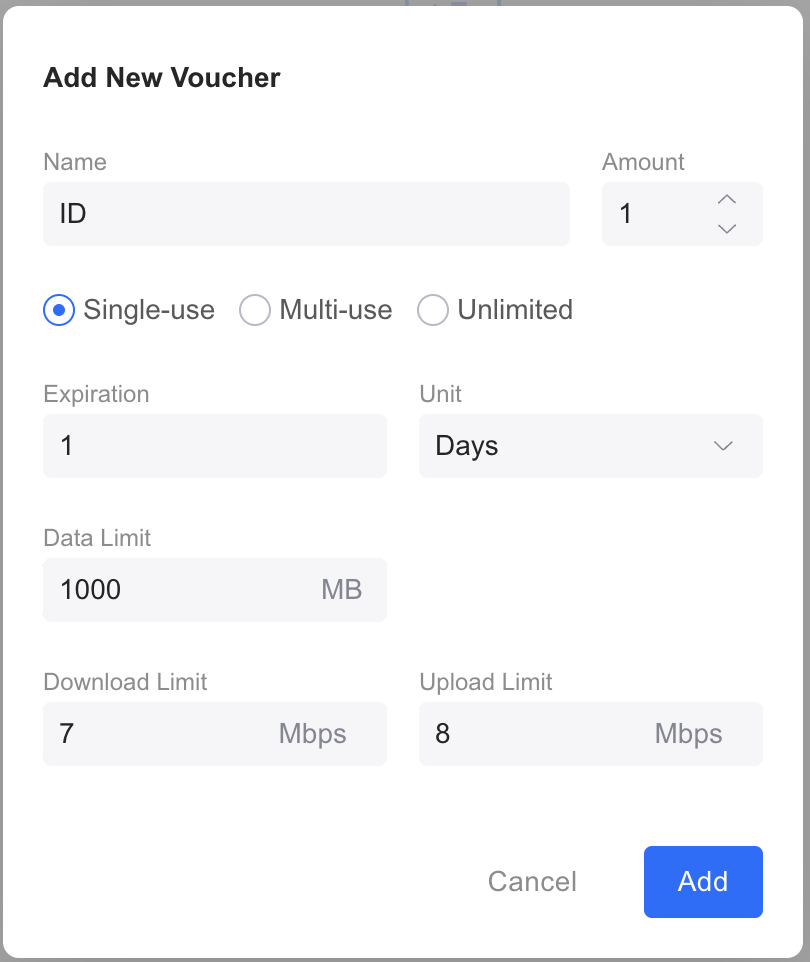
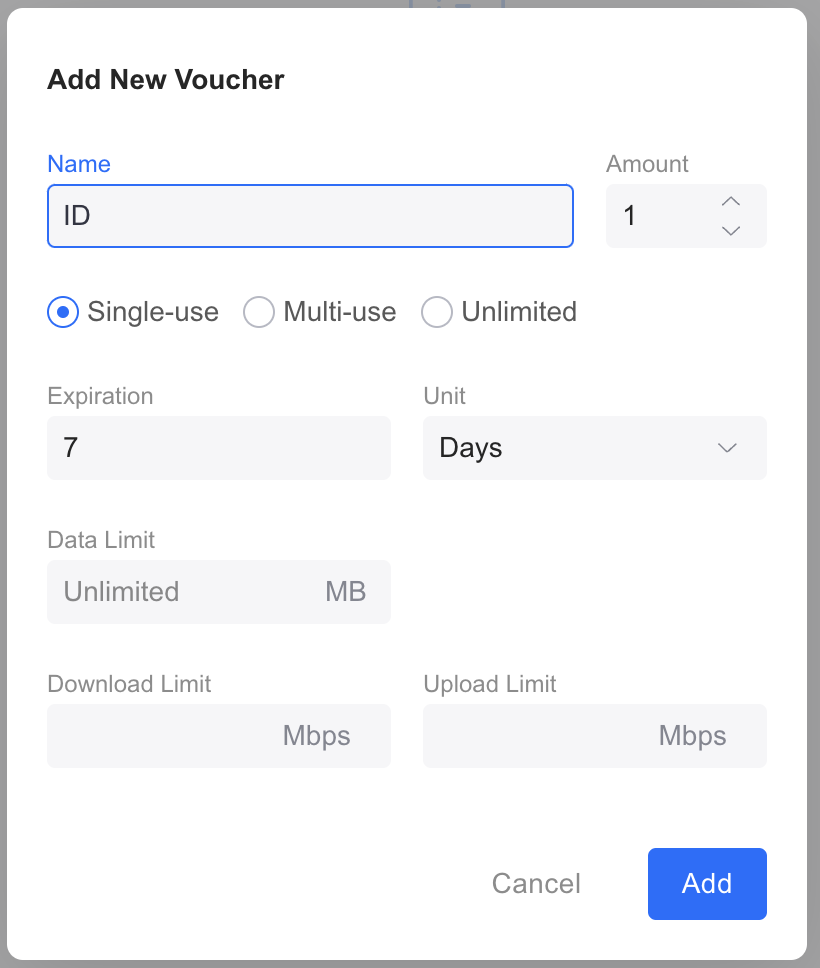
updating the documentation

diff --git a/README.md b/README.md
@@ -57,11 +57,31 @@ func main() {
 
 ## Documentation
 
-### Expiry
+### Usage
+The ID will be 
+
+### Expiration
+
+<img src="expiry_prompt.png" height=400>
+
+You can set the expiry of a voucher using the SetExpire method.
+
+```go
+v := voucher.NewDefaultVoucher()
+
+// Voucher will expire 7 days from the moment a guest enters it into the landing page.
+v.SetExpire(7, voucher.Days)
+
+// Voucher will expire 8 hours from the moment a guest enters it into the landing page.
+v.SetExpire(8, voucher.Hours)
+
+// Voucher will expire 59 minutes from the moment a guest enters it into the landing page.
+v.SetExpire(59, voucher.Minutes)
+```
 
 ### Network Limits
 
-### Usage
+
 
 
 
